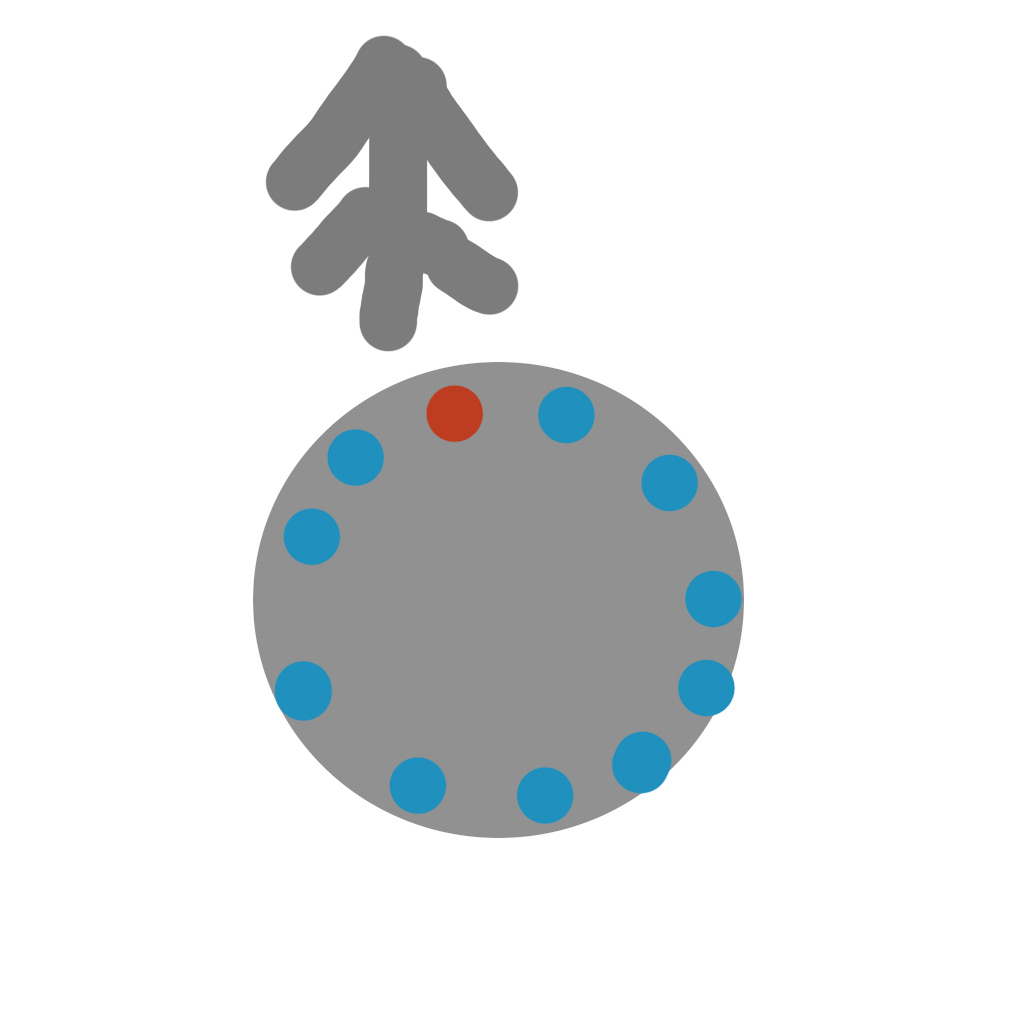
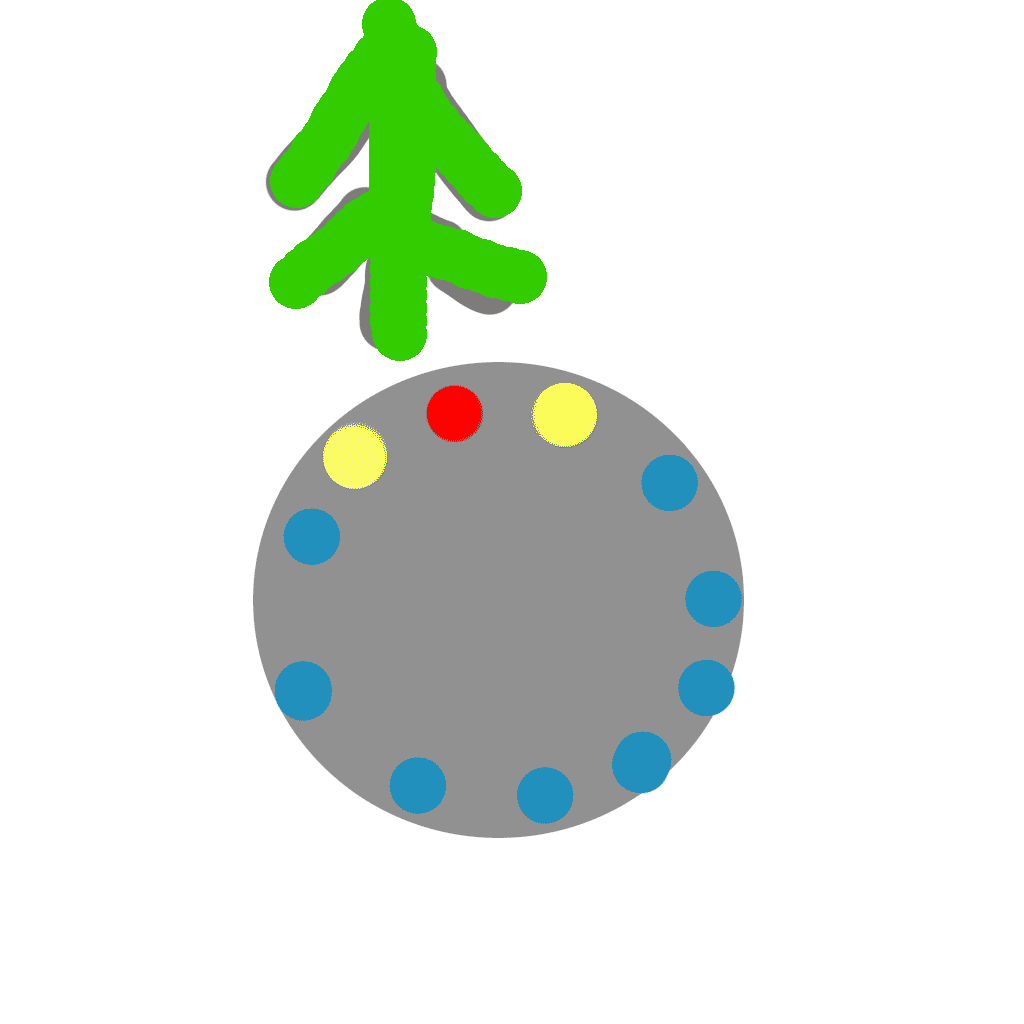
Kosmetik

diff --git a/build/html/searchindex.js b/build/html/searchindex.js
@@ -1,1 +1,1 @@
-Search.setIndex({"docnames": ["index"], "filenames": ["index.rst"], "titles": ["\u0421\u0432e\u0442\u043e\u0432\u043e\u0434"], "terms": {"\u043f\u0440\u0438\u0431\u043e\u0440": 0, "\u043e\u0441\u0443\u0449\u0435\u0441\u0442\u0432\u043b\u044f": 0, "\u0441": 0, "\u043f\u043e\u043c\u043e\u0449": 0, "\u0434\u0432\u0443\u0445": 0, "\u043a\u043d\u043e\u043f\u043e\u043a": 0, "\u0434\u043b\u044f": 0, "\u0432\u043a\u043b\u044e\u0447\u0435\u043d": 0, "\u043d\u0435\u043e\u0431\u0445\u043e\u0434\u0438\u043c": 0, "\u043d\u0430\u0436\u0430": 0, "\u0438": 0, "\u0443\u0434\u0435\u0440\u0436\u0438\u0432\u0430": 0, "\u043b\u0435\u0432": 0, "\u043a\u043d\u043e\u043f\u043a": 0, "\u043f\u043e\u0441\u043b": 0, "\u0442\u043e\u0433": 0, "\u043a\u0430\u043a": 0, "\u0432\u043a\u043b\u044e\u0447": 0, "\u0434\u0438\u0441\u043f\u043b": 0, "\u043e\u0442\u043f\u0443\u0441\u0442": 0, "\u0430\u043b\u0444\u0430\u0432\u0438\u0442\u043d": [], "\u0443\u043a\u0430\u0437\u0430\u0442\u0435\u043b": [], "\u0441\u043e\u0441\u0442\u0430": [], "\u043c\u043e\u0434\u0443\u043b": [], "\u043f\u043e\u0438\u0441\u043a": [], "\u043f\u043e\u043a\u0430\u0437\u044b\u0432\u0430": 0, "\u043d\u0430\u043f\u0440\u0430\u0432\u043b\u0435\u043d": 0, "\u0440\u0430\u0441\u0441\u0442\u043e\u044f\u043d": 0, "\u0434\u043e": 0, "\u0442\u043e\u0447\u043a": 0, "\u0441\u0442\u0430\u0440\u0442": 0, "\u0438\u043b": 0, "\u0437\u0430\u0434\u0430": 0, "\u0432": 0, "\u043f\u0430\u043c\u044f\u0442": 0, "\u043c\u043e\u0436\u043d": 0, "\u0441\u043e\u0445\u0440\u0430\u043d": 0, "7": 0, "\u0442\u043e\u0447\u0435\u043a": 0, "\u043d\u0430\u0437\u0432\u0430\u043d": 0, "\u0432\u044b\u0441\u043e\u0442": 0, "\u043d\u0430": 0, "\u0443\u0440\u043e\u0432\u043d": 0, "\u0437\u0430\u043f\u043e\u043c\u043d\u0435\u043d": 0, "\u0432\u043e": 0, "\u0432\u0440\u0435\u043c": 0, "\u043e\u0442\u043e\u0431\u0440\u0430\u0436\u0430": 0, "16": 0, "\u0441\u0432\u0435\u0442\u043e\u0434\u0438\u043e\u0434": 0, "\u0440\u0430\u0441\u043f\u043e\u043b\u043e\u0436\u0435\u043d": 0, "\u043f\u043e": 0, "\u043a\u0440\u0443\u0433": 0, "\u0446\u0438\u0444\u0440\u043e\u0432": 0, "\u0432\u0438\u0434": 0, "\u044d\u043a\u0440\u0430\u043d": 0}, "objects": {}, "objtypes": {}, "objnames": {}, "titleterms": {"\u0441\u0432e\u0442\u043e\u0432\u043e\u0434": 0, "\u0443\u043f\u0440\u0430\u0432\u043b\u0435\u043d": 0, "indices": [], "and": [], "tables": []}, "envversion": {"sphinx.domains.c": 2, "sphinx.domains.changeset": 1, "sphinx.domains.citation": 1, "sphinx.domains.cpp": 8, "sphinx.domains.index": 1, "sphinx.domains.javascript": 2, "sphinx.domains.math": 2, "sphinx.domains.python": 3, "sphinx.domains.rst": 2, "sphinx.domains.std": 2, "sphinx": 57}, "alltitles": {"\u0421\u0432e\u0442\u043e\u0432\u043e\u0434": [[0, "e"]], "\u0423\u043f\u0440\u0430\u0432\u043b\u0435\u043d\u0438\u0435": [[0, "id1"]]}, "indexentries": {}})
+Search.setIndex({"docnames": ["index"], "filenames": ["index.rst"], "titles": ["\u0421\u0432e\u0442\u043e\u0432\u043e\u0434"], "terms": {"\u043f\u0440\u0438\u0431\u043e\u0440": 0, "\u043e\u0441\u0443\u0449\u0435\u0441\u0442\u0432\u043b\u044f": 0, "\u0441": 0, "\u043f\u043e\u043c\u043e\u0449": 0, "\u0434\u0432\u0443\u0445": 0, "\u043a\u043d\u043e\u043f\u043e\u043a": 0, "\u0434\u043b\u044f": 0, "\u0432\u043a\u043b\u044e\u0447\u0435\u043d": [], "\u043d\u0435\u043e\u0431\u0445\u043e\u0434\u0438\u043c": 0, "\u043d\u0430\u0436\u0430": 0, "\u0438": 0, "\u0443\u0434\u0435\u0440\u0436\u0438\u0432\u0430": 0, "\u043b\u0435\u0432": 0, "\u043a\u043d\u043e\u043f\u043a": 0, "\u043f\u043e\u0441\u043b": 0, "\u0442\u043e\u0433": 0, "\u043a\u0430\u043a": 0, "\u0432\u043a\u043b\u044e\u0447": 0, "\u0434\u0438\u0441\u043f\u043b": 0, "\u043e\u0442\u043f\u0443\u0441\u0442": 0, "\u0430\u043b\u0444\u0430\u0432\u0438\u0442\u043d": [], "\u0443\u043a\u0430\u0437\u0430\u0442\u0435\u043b": [], "\u0441\u043e\u0441\u0442\u0430": [], "\u043c\u043e\u0434\u0443\u043b": [], "\u043f\u043e\u0438\u0441\u043a": [], "\u043f\u043e\u043a\u0430\u0437\u044b\u0432\u0430": 0, "\u043d\u0430\u043f\u0440\u0430\u0432\u043b\u0435\u043d": 0, "\u0440\u0430\u0441\u0441\u0442\u043e\u044f\u043d": 0, "\u0434\u043e": 0, "\u0442\u043e\u0447\u043a": 0, "\u0441\u0442\u0430\u0440\u0442": 0, "\u0438\u043b": 0, "\u0437\u0430\u0434\u0430": 0, "\u0432": 0, "\u043f\u0430\u043c\u044f\u0442": 0, "\u043c\u043e\u0436\u043d": 0, "\u0441\u043e\u0445\u0440\u0430\u043d": 0, "7": 0, "\u0442\u043e\u0447\u0435\u043a": 0, "\u043d\u0430\u0437\u0432\u0430\u043d": 0, "\u0432\u044b\u0441\u043e\u0442": 0, "\u043d\u0430": 0, "\u0443\u0440\u043e\u0432\u043d": 0, "\u0437\u0430\u043f\u043e\u043c\u043d\u0435\u043d": 0, "\u0432\u043e": 0, "\u0432\u0440\u0435\u043c": 0, "\u043e\u0442\u043e\u0431\u0440\u0430\u0436\u0430": 0, "16": 0, "\u0441\u0432\u0435\u0442\u043e\u0434\u0438\u043e\u0434": 0, "\u0440\u0430\u0441\u043f\u043e\u043b\u043e\u0436\u0435\u043d": 0, "\u043f\u043e": 0, "\u043a\u0440\u0443\u0433": 0, "\u0446\u0438\u0444\u0440\u043e\u0432": 0, "\u0432\u0438\u0434": 0, "\u044d\u043a\u0440\u0430\u043d": 0, "\u043a\u0440\u0430\u0441\u043d": 0, "\u0441\u0432\u0435": [], "\u043a\u0440\u043e\u043c": [], "\u044d\u0442": 0, "\u043e\u0446\u0435\u043d": [], "\u0441\u0432\u0435\u0447\u0435\u043d": [], "\u043f\u0440\u0430\u0432": 0, "\u0446\u0435\u043b\u0435\u0432": 0, "\u0434\u0430\u043b": 0, "\u0442\u0435\u043a\u0441\u0442": 0, "\u043e\u043d": 0, "\u0431\u0443\u0434\u0443\u0442": 0, "\u043d\u0430\u0437\u044b\u0432\u0430": 0, "\u0430": 0, "\u0437\u0430\u0432\u0438\u0441\u0438\u043c": 0, "\u043e\u0442": 0, "\u0441\u0431\u043e\u043a": 0, "\u0441\u0432\u0435\u0442": 0, "1": 0, "3": 0, "\u0436\u0435\u043b\u0442": 0, "\u0442\u043e\u043b\u044c\u043a": 0, "\u0431\u0443\u0434\u0435\u0442": 0, "\u043f\u0440\u0438\u043d": 0, "\u0432\u0430\u043b\u0438\u0434\u043d": 0, "\u0441\u0438\u0433\u043d\u0430": 0, "\u0441\u043e": 0, "\u0441\u043f\u0443\u0442\u043d\u0438\u043a": 0, "\u043e\u0442\u043e\u0431\u0440\u0430\u0437": 0, "\u0434\u0432\u0438\u0436\u0435\u043d": 0, "\u043e\u0442\u043d\u043e\u0441\u0438\u0442\u0435\u043b\u044c\u043d": 0, "\u0443\u043a\u0430\u0437\u0430": 0, "\u0430\u0432\u0442\u043e\u043c\u0430\u0442\u0438\u0447\u0435\u0441\u043a": 0, "\u043f\u0440\u0438": 0, "\u0437\u0430\u043f\u043e\u043c\u0438\u043d\u0430": 0, "\u043f\u0435\u0440\u0435\u0445\u043e\u0434": 0, "\u043d\u0435": 0, "\u0432\u044b\u0432\u043e\u0434": 0, "\u043e\u0442\u043e\u0431\u0440\u0430\u0436\u0435\u043d": 0, "\u043b\u0438\u0431": 0, "\u043e\u0431\u043d\u0443\u043b\u044f": 0, "\u043f\u0435\u0440\u0435\u043a\u043b\u044e\u0447\u0435\u043d": 0, "\u043c\u0435\u0436\u0434": 0, "\u043d\u0430\u0436\u0430\u0442": 0, "\u0432\u0445\u043e\u0434": 0, "\u0432\u044b\u0445\u043e\u0434": 0, "\u0438\u0437": 0, "\u043d\u0435\u0433": 0, "\u0434\u043b\u0438\u043d": 0, "\u043f\u0435\u0440\u0435\u043c\u0435\u0449\u0435\u043d": 0, "\u043f\u0443\u043d\u043a\u0442": 0, "\u043a\u043e\u0440\u043e\u0442\u043a": 0, "\u0432\u044b\u0431\u0440\u0430": 0, "\u0438\u0437\u043c\u0435\u043d": 0, "\u0435": 0, "\u043a\u043e\u043e\u0440\u0434\u0438\u043d\u0430\u0442": 0, "\u044f\u0440\u043a\u043e\u0441\u0442": 0, "\u0432\u044b\u0431\u043e\u0440": 0, "\u0432\u043e\u0439\u0442": 0, "\u0442\u0447": 0, "\u0437\u0430\u0442": 0, "\u044d\u0442\u043e\u0442": 0, "\u0440\u0435\u0436": 0, "\u043d\u0443\u0436\u043d": 0, "\u043f\u043e\u0434\u0442\u0432\u0435\u0440\u0434": 0, "\u0438\u0437\u043c\u0435\u043d\u0435\u043d": 0, "\u0438\u0437\u043c": 0, "\u043d\u0430\u0437\u0432": 0, "\u0440\u0435\u0434\u0430\u043a\u0442\u0438\u0440\u043e\u0432\u0430": 0, "\u043a\u043e\u043e\u0440\u0434": 0, "\u043e\u0434\u043d\u043e\u0432\u0440\u0435\u043c\u0435\u043d": 0, "\u0443\u0434\u0435\u0440\u0436\u0430\u043d": 0, "\u0442\u0435\u0447\u0435\u043d": 0, "5": 0, "\u0441\u0435\u043a\u0443\u043d\u0434": 0, "\u043e\u0431\u0435": 0, "\u0447\u0435\u0440\u0435\u0437": 0, "\u043f\u0440\u0435\u0434\u0443\u0441\u043c\u043e\u0442\u0440": 0, "\u0432\u0441\u0442\u0430\u0432": 0, "\u0440\u0430\u0437\u044a": 0, "micro": 0, "usb": 0, "\u043e\u0442\u0432\u0435\u0440\u0441\u0442": 0, "\u043a\u043e\u0440\u043f\u0443\u0441": 0, "\u043d\u0430\u0447\u043d\u0443\u0442": 0, "\u043c\u0438\u0433\u0430": 0, "\u0434\u0435\u043b\u0435\u043d": 0, "\u0440\u0438\u0441\u0443\u043d\u043a": 0, "\u043f\u043e\u043b\u043d\u043e\u0441\u0442": 0, "\u0440\u0430\u0437\u0440\u044f\u0436\u0435\u043d": 0, "\u0441\u043e\u0441\u0442\u0430\u0432\u043b\u044f": 0, "\u043e\u0434\u043d": 0, "\u0447\u0430\u0441": 0}, "objects": {}, "objtypes": {}, "objnames": {}, "titleterms": {"\u0441\u0432e\u0442\u043e\u0432\u043e\u0434": 0, "\u0443\u043f\u0440\u0430\u0432\u043b\u0435\u043d": 0, "indices": [], "and": [], "tables": [], "main": [], "template": [], "\u0432\u043a\u043b\u044e\u0447\u0435\u043d": 0, "\u043c\u0435\u043d": 0, "\u043d\u0430\u0441\u0442\u0440\u043e\u0435\u043a": 0, "\u0432\u044b\u043a\u043b\u044e\u0447\u0435\u043d": 0, "\u0437\u0430\u0440\u044f\u0434\u043a": 0, "\u0432\u0441\u0442\u0440\u043e\u0435\u043d": 0, "\u0430\u043a\u043a\u0443\u043c\u0443\u043b\u044f\u0442\u043e\u0440": 0}, "envversion": {"sphinx.domains.c": 2, "sphinx.domains.changeset": 1, "sphinx.domains.citation": 1, "sphinx.domains.cpp": 8, "sphinx.domains.index": 1, "sphinx.domains.javascript": 2, "sphinx.domains.math": 2, "sphinx.domains.python": 3, "sphinx.domains.rst": 2, "sphinx.domains.std": 2, "sphinx": 57}, "alltitles": {"\u0421\u0432e\u0442\u043e\u0432\u043e\u0434": [[0, "e"]], "\u0412\u043a\u043b\u044e\u0447\u0435\u043d\u0438\u0435": [[0, "id1"]], "\u0423\u043f\u0440\u0430\u0432\u043b\u0435\u043d\u0438\u0435": [[0, "id2"]], "\u041c\u0435\u043d\u044e \u043d\u0430\u0441\u0442\u0440\u043e\u0435\u043a": [[0, "id3"]], "\u0412\u044b\u043a\u043b\u044e\u0447\u0435\u043d\u0438\u0435": [[0, "id4"]], "\u0417\u0430\u0440\u044f\u0434\u043a\u0430 \u0432\u0441\u0442\u0440\u043e\u0435\u043d\u043d\u043e\u0433\u043e \u0430\u043a\u043a\u0443\u043c\u0443\u043b\u044f\u0442\u043e\u0440\u0430": [[0, "id5"]]}, "indexentries": {}})

diff --git a/build/html/index.html b/build/html/index.html
@@ -31,23 +31,47 @@
 
           <div class="body" role="main">
             
-  <section id="e">
+  <a class="reference internal image-reference" href="_images/real.png"><img alt="alternate text" class="align-right" src="_images/real.png" style="width: 100.0px; height: 100.0px;" /></a>
+<section id="e">
 <h1>Свeтовод<a class="headerlink" href="#e" title="Permalink to this heading">¶</a></h1>
 <blockquote>
 <div><ul class="simple">
-<li><p>Показывает направление и расстояние до точки
+<li><p>Показывает направление и расстояние до целевой точки (далее по тексту они будут называться точки)
 старта или заданной. В памяти прибора можно сохранить 7 точек с названиями.</p></li>
 <li><p>Высоту на уровнем, запомненным во время включения.</p></li>
 </ul>
 </div></blockquote>
-<a class="reference internal image-reference" href="_images/t1.png"><img alt="alternate text" class="align-left" src="_images/t1.png" style="width: 100.0px; height: 100.0px;" /></a>
+<a class="reference internal image-reference" href="_images/t2.png"><img alt="alternate text" class="align-left" src="_images/t2.png" style="width: 150.0px; height: 150.0px;" /></a>
 <p>Направление отображается с помощью 16 светодиодов, расположенных по кругу.
-Расстояние отображается в цифровом виде на экране.</p>
+Красный светодиод показывает направление, а в зависимости от расстояния до точки, сбоку от красного светодиода светятся 1 или 3 желтых.</p>
+<p>Расстояние отображается и в цифровом виде на экране.</p>
 <section id="id1">
-<h2>Управление<a class="headerlink" href="#id1" title="Permalink to this heading">¶</a></h2>
-<p>Управление прибором осуществляется с помощью двух кнопок.</p>
-<p>Для включения прибора, необходимо нажать и удерживать левую кнопку, после того как включится дисплей</p>
-<p>необходимо отпустить кнопку.</p>
+<h2>Включение<a class="headerlink" href="#id1" title="Permalink to this heading">¶</a></h2>
+<p>Управление прибором осуществляется с помощью двух кнопок - левой и правой.</p>
+<p>Для включения прибора, необходимо нажать и удерживать левую кнопку, после того как включится дисплей отпустить.</p>
+<p>Как только будет принят валидный сигнал со спутника, светодиодами отобразится направление движения относительно точки и на дисплее будет указано расстояние до точки старта (прибор автоматически при включении запоминает точку старта и переходит на неё.</p>
+</section>
+<section id="id2">
+<h2>Управление<a class="headerlink" href="#id2" title="Permalink to this heading">¶</a></h2>
+<p>На дисплее прибора можно выводить отображение расстояния до точки, либо отображение высоты. При включении прибора высота обнуляется. Переключение между высотой и расстоянием осуществляется нажатием правой кнопки.</p>
+</section>
+<section id="id3">
+<h2>Меню настроек<a class="headerlink" href="#id3" title="Permalink to this heading">¶</a></h2>
+<p>Вход в меню и выход из него осуществляется длинным нажатием левой кнопки, перемещение по пунктам меню коротким нажатием левой кнопки.</p>
+<p>В меню прибора можно выбрать точку, изменить её название, изменить её координаты и изменить яркость светодиодов.</p>
+<p>Для выбора точки, необходимо войти в меню, выбрать пункт ВЫБОР ТЧ., затем нажать правую кнопку для входа в этот режим, далее короткими нажатиями левой кнопки выбрать нужную точку и нажатием правой кнопки подтвердить выбор.</p>
+<p>Для изменения названия точки, необходимо в меню выбрать пункт ИЗМ.НАЗВ, затем нажать правую кнопку для входа в этот режим, далее короткими нажатиями левой кнопки выбрать нужную точку и нажатием правой кнопки подтвердить выбор, после этого можно редактировать название выбранной точки</p>
+<p>Для изменения координат, необходимо в меню выбрать пункт ИЗМ.КООРД, затем нажать правую кнопку для входа в этот режим, далее короткими нажатиями левой кнопки выбрать нужную точку и нажатием правой кнопки подтвердить выбор, после этого можно редактировать координаты выбранной точки.</p>
+<p>Для изменения яркости светодиодов, необходимо в меню выбрать пункт ЯРКОСТЬ, затем нажать правую кнопку для входа в этот режим, далее короткими нажатиями левой кнопки выбрать нужную яркость светодиодов и нажатием правой кнопки подтвердить выбор.</p>
+</section>
+<section id="id4">
+<h2>Выключение<a class="headerlink" href="#id4" title="Permalink to this heading">¶</a></h2>
+<p>Выключение прибора осуществляется одновременным нажатием и удержанием в течении 5 секунд обеих кнопок, либо через меню, выбрав пункт ВЫКЛЮЧЕНИЕ.</p>
+</section>
+<section id="id5">
+<h2>Зарядка встроенного аккумулятора<a class="headerlink" href="#id5" title="Permalink to this heading">¶</a></h2>
+<p>В приборе предусмотрена зарядка аккумулятора, для этого необходимо вставить разъем micro-USB в отверстие в корпусе прибора, при этом начнут мигать деления на рисунке аккумулятора на дисплее.
+При полностью разряженном аккумуляторе время зарядки составляет не менее одного часа.</p>
 </section>
 </section>
 

diff --git a/source/index.rst b/source/index.rst
@@ -3,17 +3,26 @@
    You can adapt this file completely to your liking, but it should at least
    contain the root `toctree` directive.
 
+.. image:: _static/real.png
+   :height: 200 px
+   :width:  200 px
+   :scale: 50 %
+   :alt: alternate text
+   :align: right
+
+
 Свeтовод
 ========
+
  - Показывает направление и расстояние до целевой точки (далее по тексту они будут называться точки)
    старта или заданной. В памяти прибора можно сохранить 7 точек с названиями.
 
  - Высоту на уровнем, запомненным во время включения.
 
-.. image:: _static/t1.png
+.. image:: _static/t2.png
    :height: 200 px
    :width:  200 px
-   :scale: 50 %
+   :scale: 75 %
    :alt: alternate text
    :align: left
 
@@ -22,8 +31,8 @@
 
 Расстояние отображается и в цифровом виде на экране.
 
-Включение прибора
------------------
+Включение
+---------
 
 Управление прибором осуществляется с помощью двух кнопок - левой и правой.
 
@@ -32,14 +41,14 @@
 Как только будет принят валидный сигнал со спутника, светодиодами отобразится направление движения относительно точки и на дисплее будет указано расстояние до точки старта (прибор автоматически при включении запоминает точку старта и переходит на неё.
 
 
-Управление прибором
--------------------
+Управление
+----------
 
 На дисплее прибора можно выводить отображение расстояния до точки, либо отображение высоты. При включении прибора высота обнуляется. Переключение между высотой и расстоянием осуществляется нажатием правой кнопки.
 
 
-Меню настроек прибора
----------------------
+Меню настроек
+-------------
 
 Вход в меню и выход из него осуществляется длинным нажатием левой кнопки, перемещение по пунктам меню коротким нажатием левой кнопки.
 
@@ -53,11 +62,13 @@
 
 Для изменения яркости светодиодов, необходимо в меню выбрать пункт ЯРКОСТЬ, затем нажать правую кнопку для входа в этот режим, далее короткими нажатиями левой кнопки выбрать нужную яркость светодиодов и нажатием правой кнопки подтвердить выбор.
 
-Выключение прибора
-------------------
+Выключение
+----------
 Выключение прибора осуществляется одновременным нажатием и удержанием в течении 5 секунд обеих кнопок, либо через меню, выбрав пункт ВЫКЛЮЧЕНИЕ.
 
 Зарядка встроенного аккумулятора
 --------------------------------
 В приборе предусмотрена зарядка аккумулятора, для этого необходимо вставить разъем micro-USB в отверстие в корпусе прибора, при этом начнут мигать деления на рисунке аккумулятора на дисплее.
 При полностью разряженном аккумуляторе время зарядки составляет не менее одного часа.
+
+
